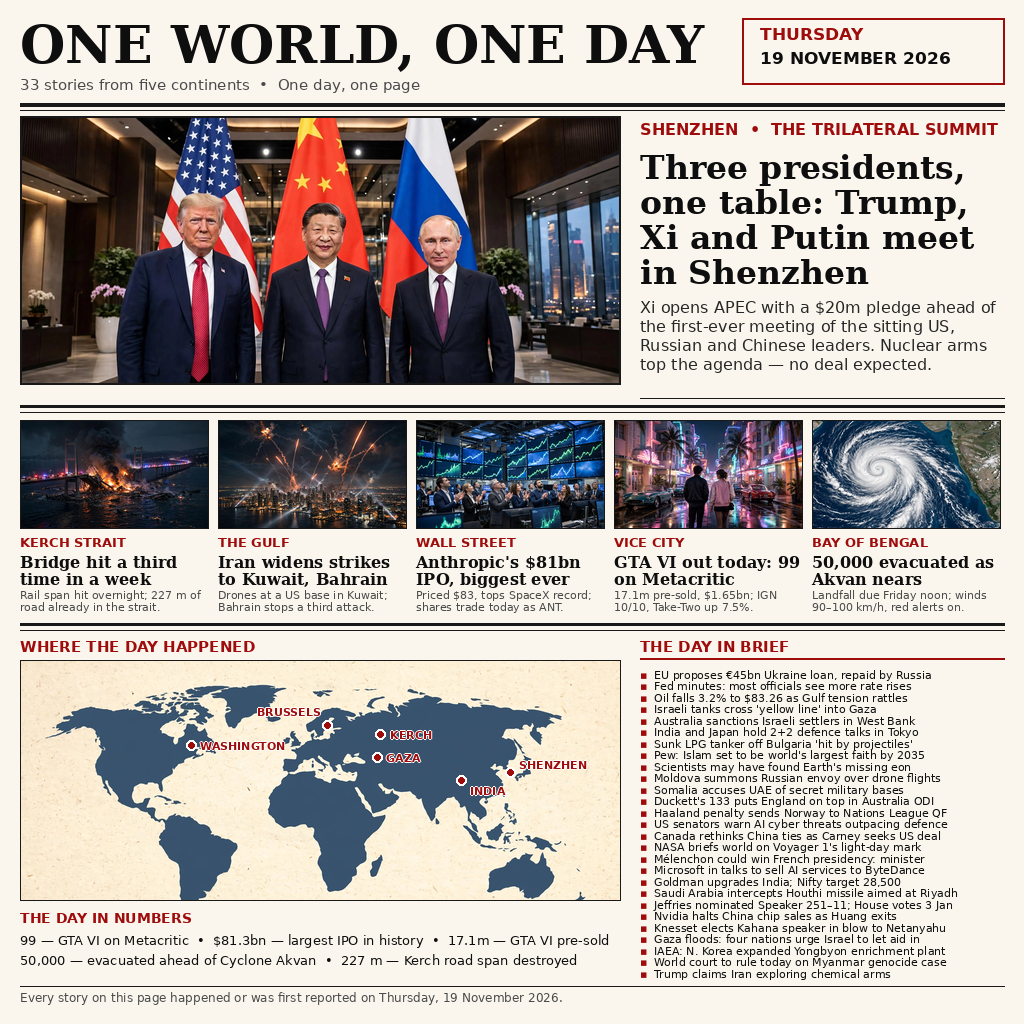
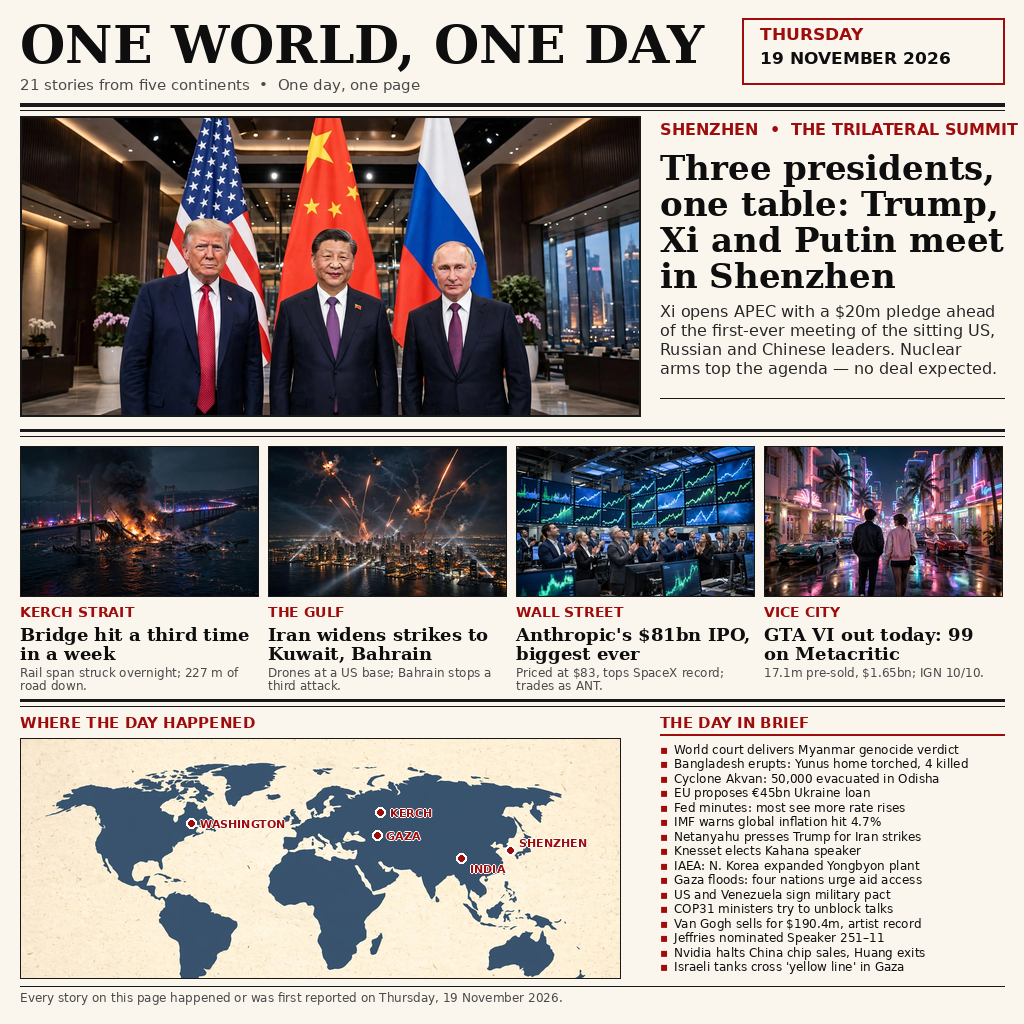
v3: ONE WORLD, ONE DAY — 21 stories, clean layout (4 big panels, 16 briefs)

diff --git a/main.py b/main.py
@@ -1,28 +1,21 @@
 #!/usr/bin/env python3
-"""Entry point for the news-image-20261119 v2 front page.
+"""news-image-20261119 v3 entrypoint.
 
-The page itself (entry.png, 1024 by 1024) is composed by
-build_frontpage_v2.py from generated photo panels and PIL typesetting.
-This script only places those exact bytes where the harness looks for
-them. It never touches the network, never re-encodes the image and
-never writes a timestamp, so repeated runs stay byte-identical.
+The front page is baked into this repository as entry.png. This program
+ships it byte-for-byte to /output/entry.png. No network, no drawing.
 """
-
+import pathlib
 import shutil
-import sys
-from os import environ, makedirs
-from os.path import abspath, dirname, join
+
+HERE = pathlib.Path(__file__).resolve().parent
+SOURCE = HERE / "entry.png"
+DEST = pathlib.Path("/output/entry.png")
 
 
-def run() -> int:
-    # v2 keeps the v1 contract (copy entry.png to the harness output dir)
-    # but spells the path handling out instead of relying on module globals.
-    here = dirname(abspath(__file__))
-    target_dir = environ.get("MAKEFUN_OUTPUT_DIR", "/output")
-    makedirs(target_dir, exist_ok=True)
-    shutil.copyfile(join(here, "entry.png"), join(target_dir, "entry.png"))
-    return 0
+def ship() -> None:
+    DEST.parent.mkdir(parents=True, exist_ok=True)
+    shutil.copyfile(SOURCE, DEST)
 
 
 if __name__ == "__main__":
-    raise SystemExit(run())
+    ship()
